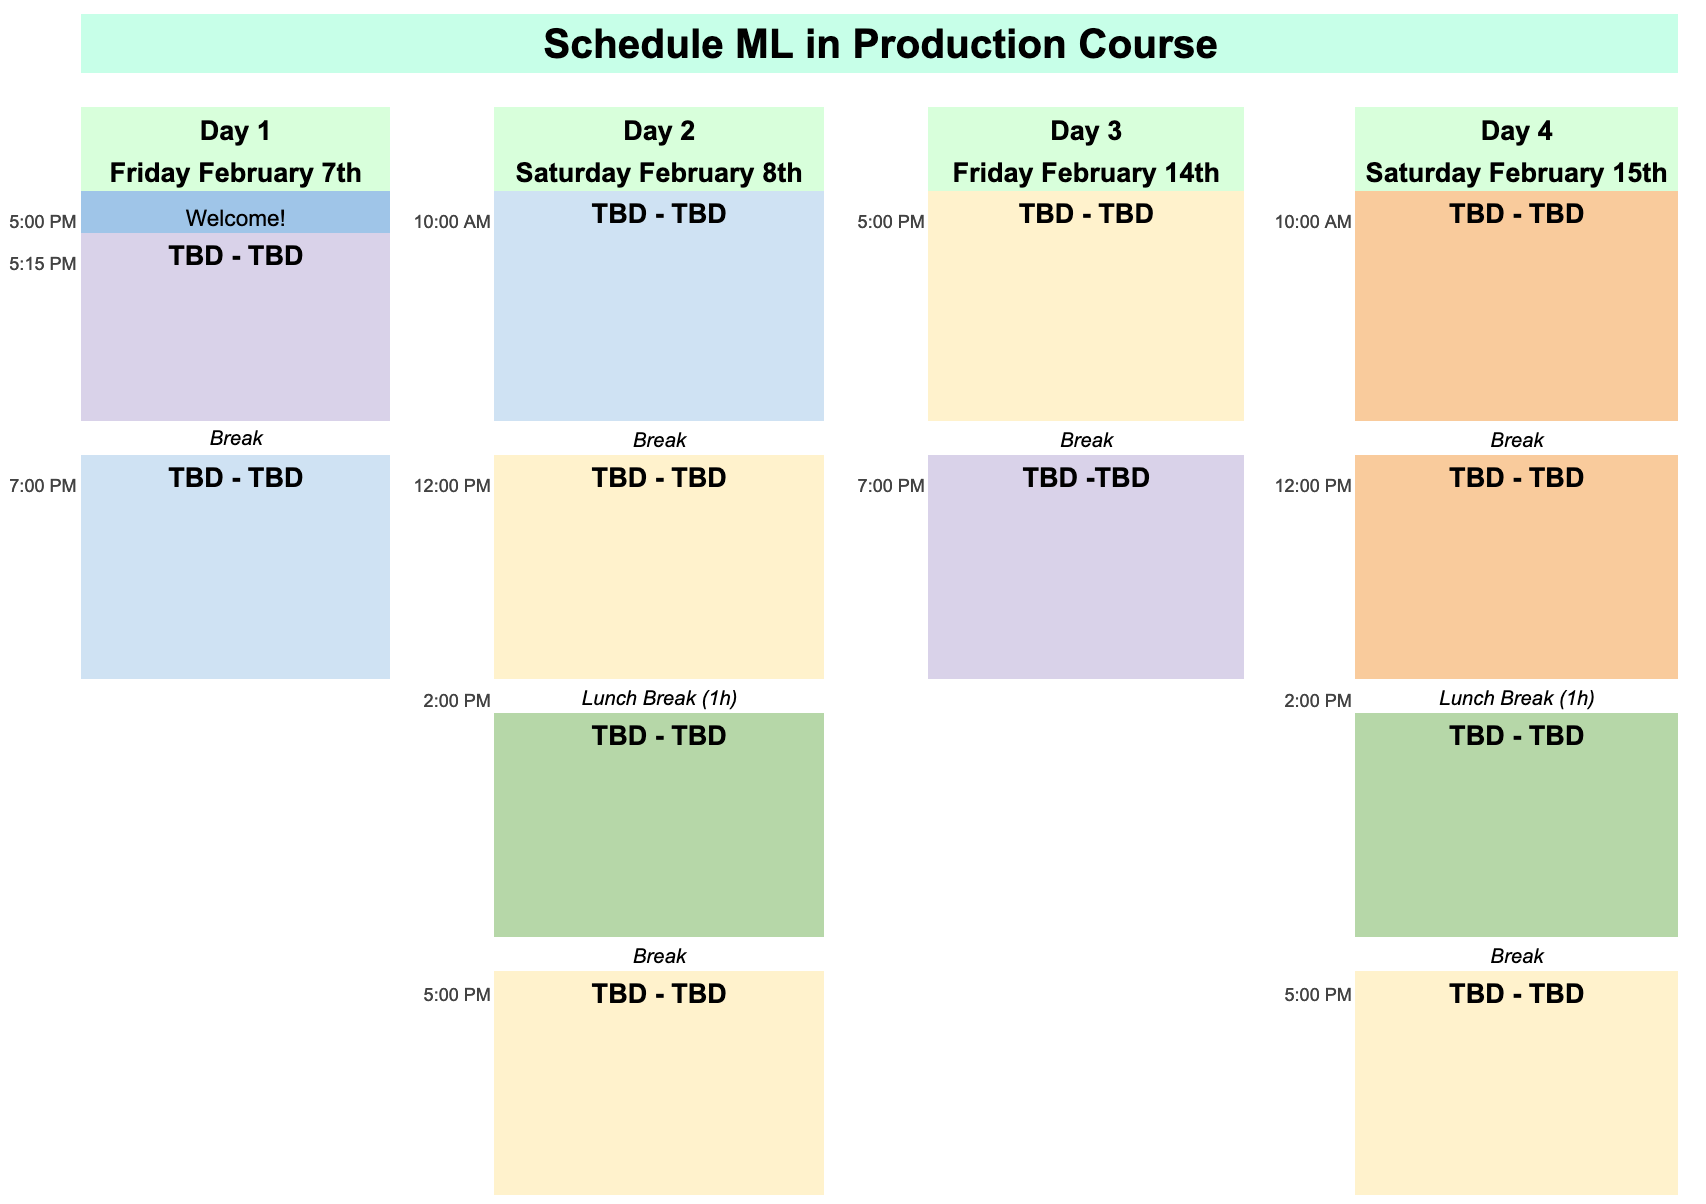
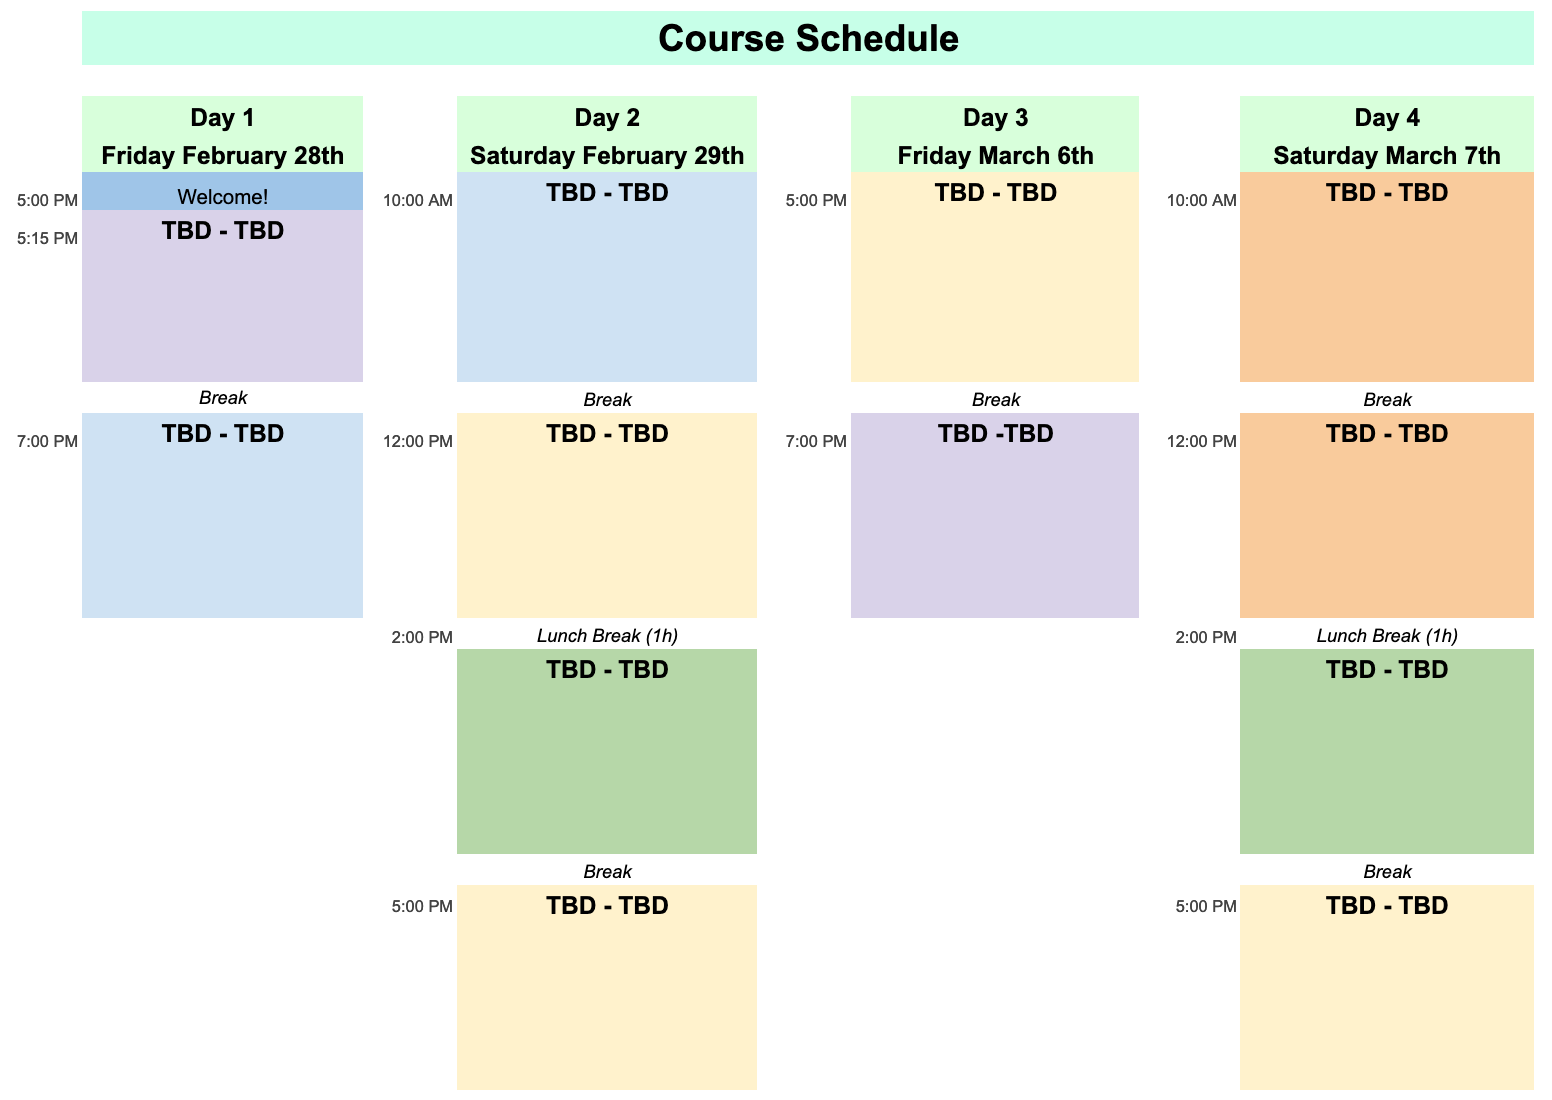
oups! dates were off!!

diff --git a/index.md b/index.md
@@ -125,10 +125,10 @@ for the past 5 years in Management consulting on areas of Data Science for banki
 ## Registration information <a name="registration"></a>
 
 **Dates**:
-- Friday February 7th, 2020, 17-21h
-- Saturday February 8th, 2020, 10-19h
-- Friday February 14th, 2020, 17-21h
-- Saturday February 15th,2020, 10-19h
+- Friday February 28th, 2020, 17-21h
+- Saturday February 29th, 2020, 10-19h
+- Friday March 6th, 2020, 17-21h
+- Saturday March 7th,2020, 10-19h
 
 **Venue**: [Llibreria Laie](https://goo.gl/maps/bLJyseumEjuD5oaHA), C/ Pau Claris, 85, 08010 Barcelona
 
